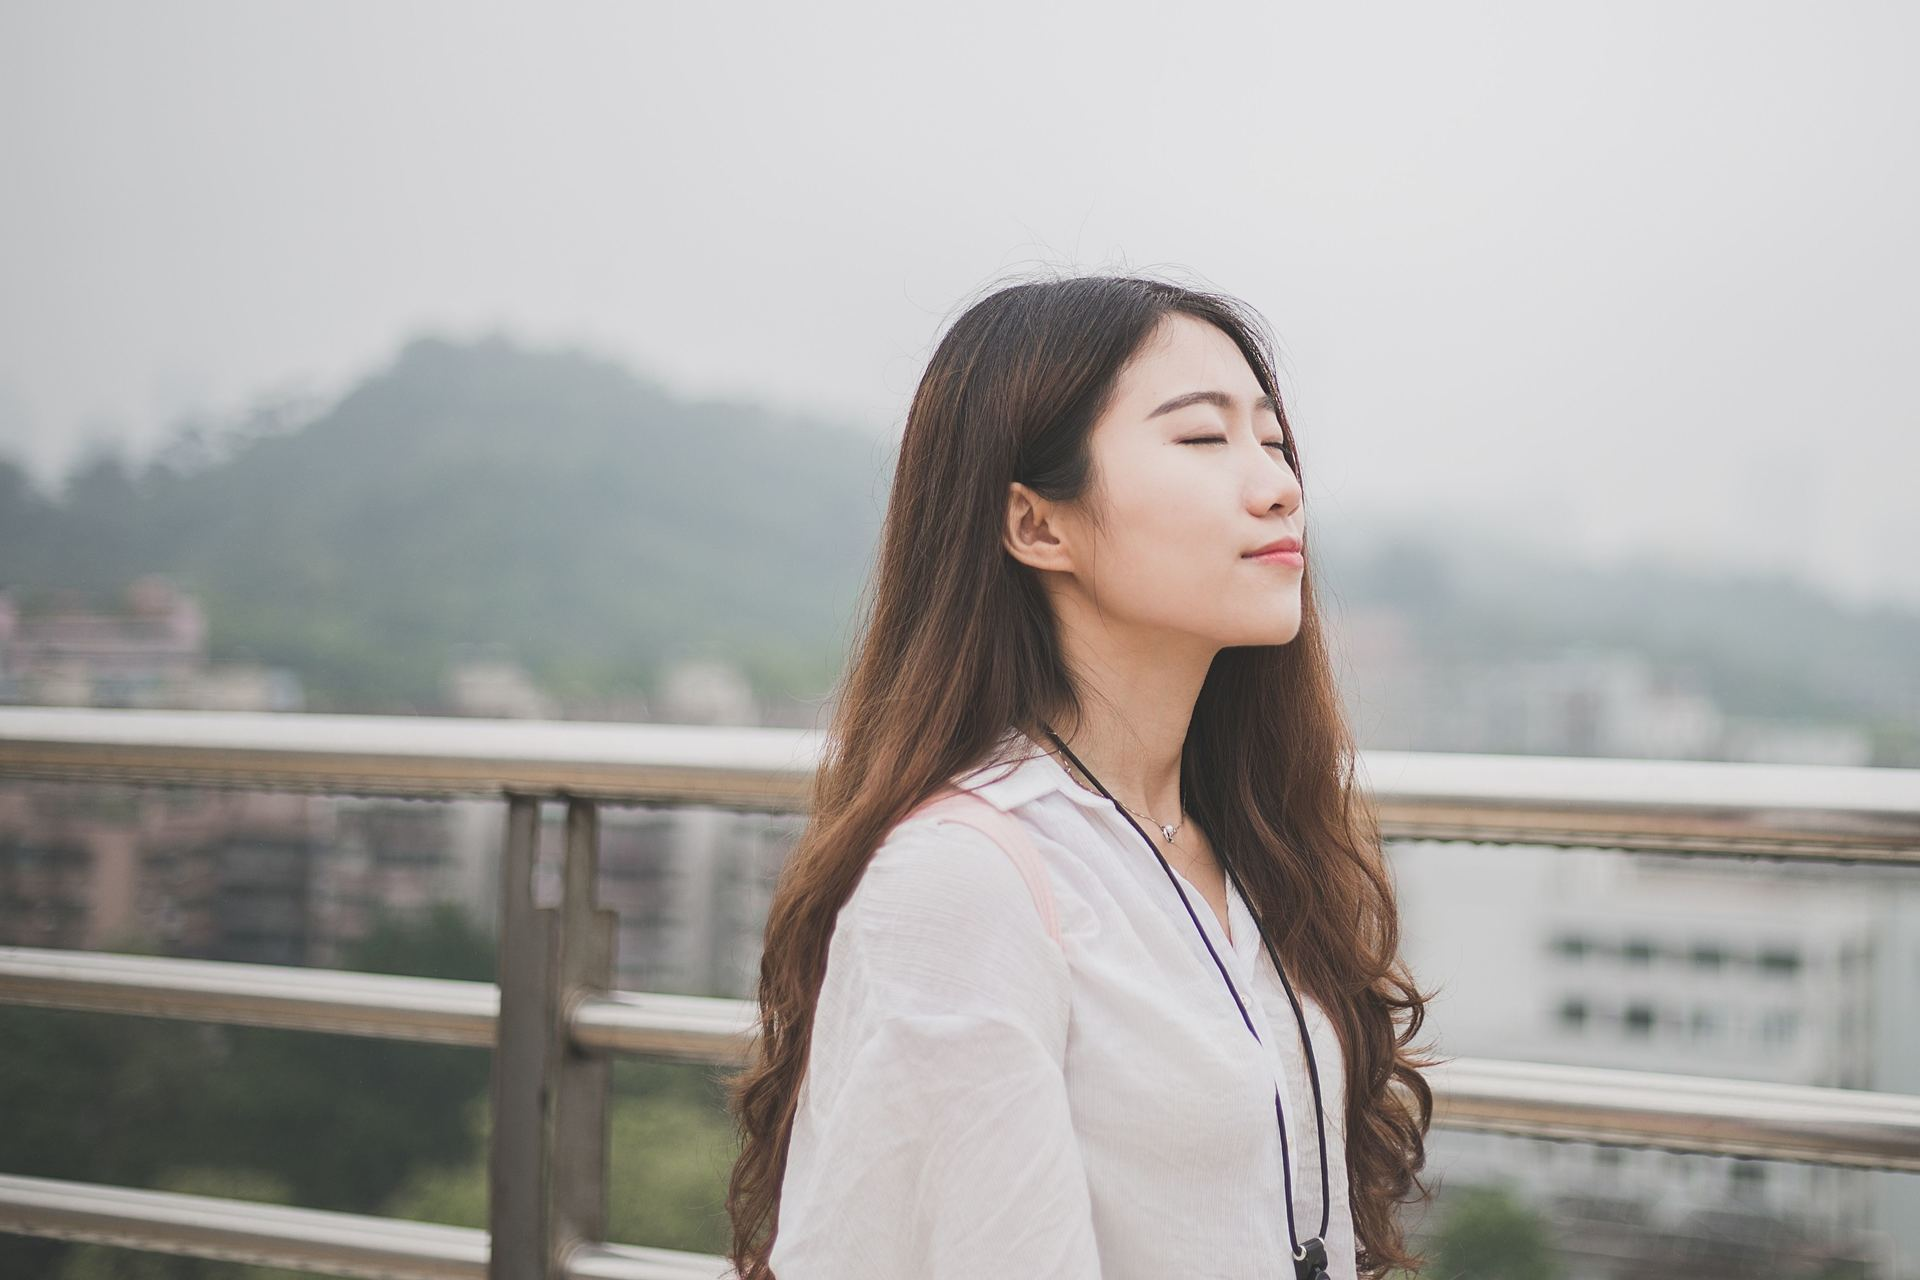
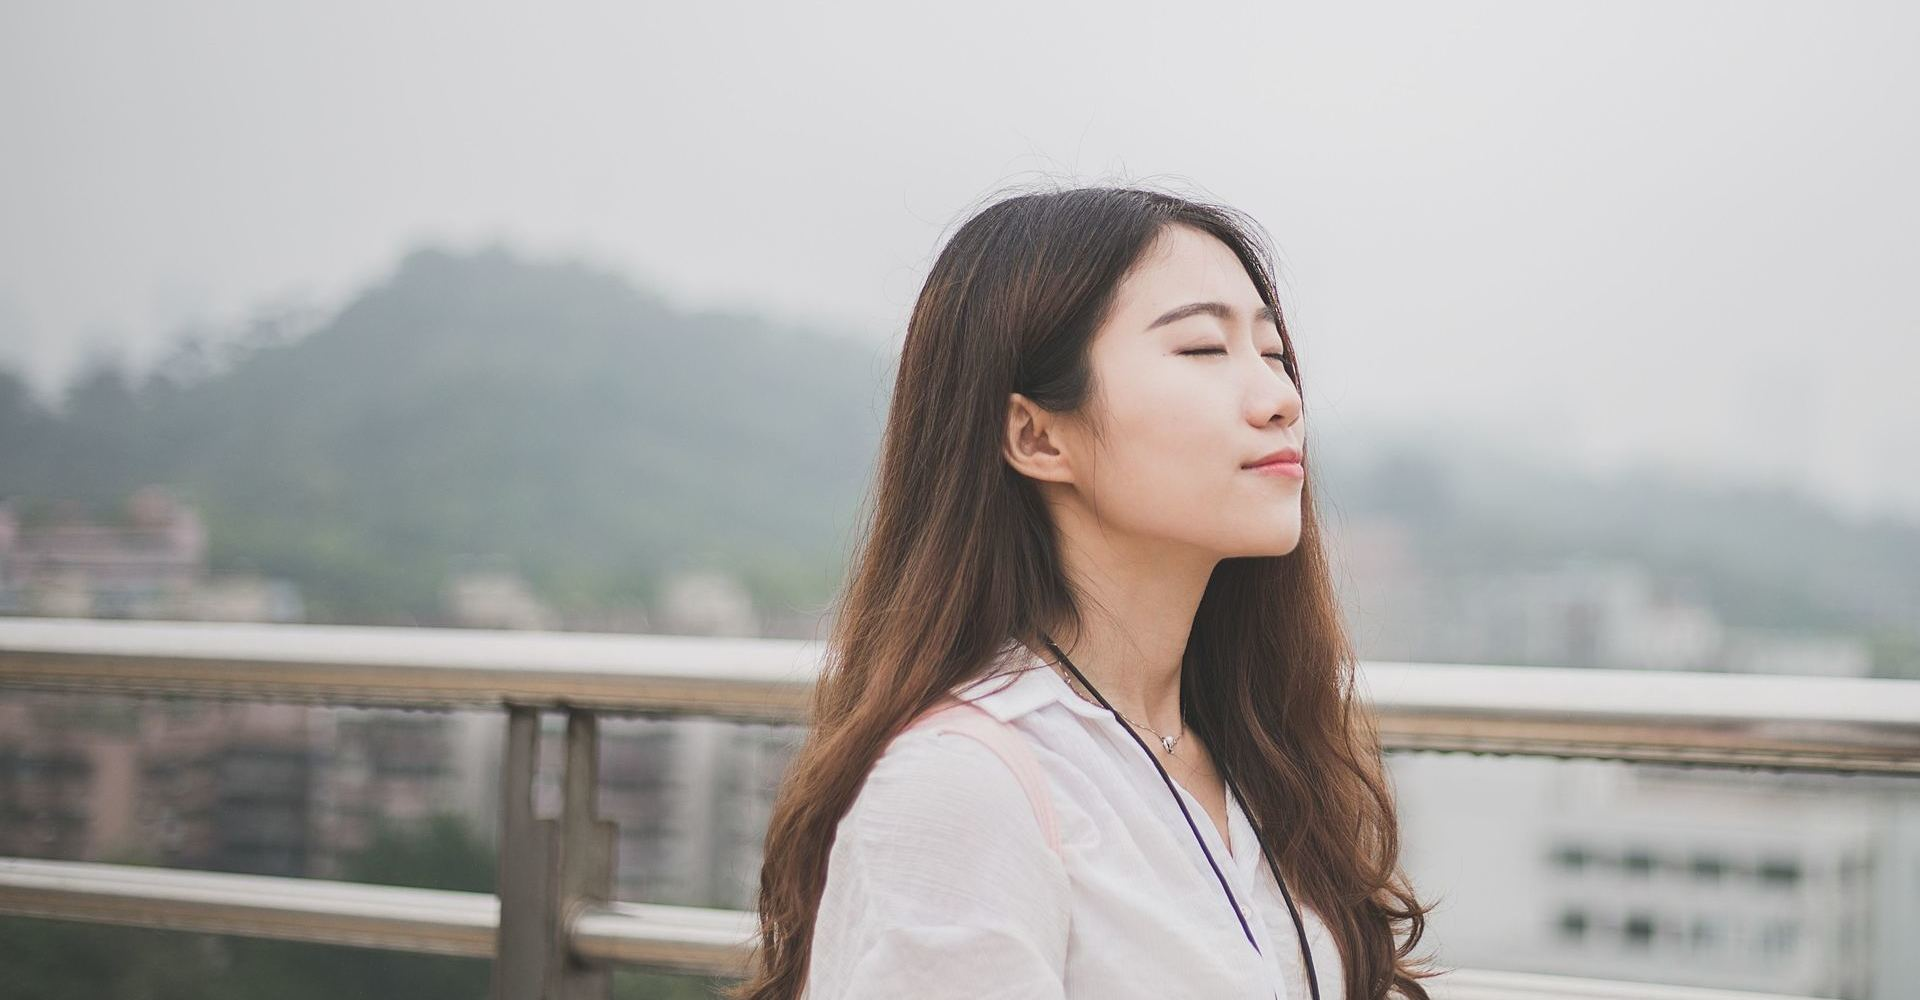
checkpoint

diff --git a/index.html b/index.html
@@ -16,8 +16,8 @@
 	<!-- UIkit CSS -->
 	<link rel="stylesheet" href="./node_modules/uikit/dist/css/uikit-core.min.css" />
 	<!-- UIkit JS -->
-	<script src="./node_modules/uikit/dist/js/uikit.min.js"></script>
-	<script src="./node_modules/uikit/dist/js/uikit-icons.min.js"></script>
+	<script defer src="./node_modules/uikit/dist/js/uikit.min.js"></script>
+	<script defer src="./node_modules/uikit/dist/js/uikit-icons.min.js"></script>
 	<!-- Fix Internet Explorer ______________________________________-->
 	<!--[if lt IE 9]>
 			<script src="http://html5shiv.googlecode.com/svn/trunk/html5.js"></script>
@@ -29,29 +29,31 @@
 <body>
 	<!-- slideshow -->
 	<div class="uk-inline uk-light">
-		<img src="./images/pic1.jpg" alt="">
+		<img src="./images/pic5-cropped.jpg" alt="">
 		<div class="uk-overlay-primary uk-position-cover"></div>
 		<div class="uk-visible@s uk-overlay uk-position-top uk-flex uk-flex-middle uk-flex-between">
 			<div>
 				<img src="./images/logo.png" width="200"> </div>
 			<div>
 				<p uk-margin>
-					<a class="uk-button" href="#">Contact</a>
-					<a class="uk-button uk-button-default" href="#">About</a>
+					<a class="uk-button" href="#contact">Contact</a>
+					<a class="uk-button uk-button-default" href="#about">About</a>
 				</p>
 			</div>
 		</div>
 		<div class="uk-overlay uk-position-center-left">
 			<div>
-				<h5>Simply Convenient</h5>
+				<h5 class="uk-margin-remove-adjacent uk-margin-small">Simple.</h5>
 				<h1>Making Privacy
 					<br> Understandable</h1>
 				<p>Highlighting the important bits of Privacy Policy &amp;
 					<br> User Agreements for the website you're browsing.</p>
 
 				<p uk-margin>
-					<a class="uk-button uk-button-default" href="#">Download FREE
-						<sup>BETA</sup>
+					<a class="uk-button uk-button-primary" href="#">
+						Download
+						<span class="uk-text-bold">FREE</span>
+						<sup class="uk-text-small">BETA</sup>
 					</a>
 				</p>
 			</div>
@@ -60,41 +62,66 @@
 
 	<div class="uk-section uk-section-default">
 		<div class="uk-container uk-text-center">
-			<h2 class="uk-text-capitalize">what we do</h2>
+			<h2 class="uk-text-uppercase uk-text-muted">what we do</h2>
 
 			<div class="uk-grid-match uk-child-width-1-3@m" uk-grid>
-				<div>
-					<img src="images/icon1.png" alt="">
-					<h3>Simplify</h3>
-					<p>We replace legal jargon
-						<br>with familiar words.</p>
-				</div>
 
 				<div>
-					<img src="images/icon2.png" alt="">
-					<h3>Shorten</h3>
-					<p>We summarize what's
-						<br>commonly important.</p>
+					<div class="uk-card">
+						<div class="uk-card-media-top">
+							<img src="images/icon1.png" class="uk-width-small" alt=" ">
+						</div>
+						<div class="uk-card-body ">
+							<h3 class="uk-card-title ">Simplify</h3>
+							<p>We replace legal jargon
+								<br> with familiar words.</p>
+						</div>
+					</div>
 				</div>
+
+
 				<div>
-					<img src="images/icon3.png" alt="">
-					<h3>Present</h3>
-					<p>We highlight conveniently
-						<br>and non-intrusively.</p>
+					<div class="uk-card ">
+						<div class="uk-card-media-top ">
+							<img src="images/icon2.png " class="uk-width-small" alt=" ">
+						</div>
+						<div class="uk-card-body ">
+							<h3 class="uk-card-title ">Shorten</h3>
+							<p>We summarize what's
+								<br>commonly important.</p>
+						</div>
+					</div>
 				</div>
+
+
+				<div>
+					<div class="uk-card ">
+						<div class="uk-card-media-top ">
+							<img src="images/icon3.png " class="uk-width-small" alt=" ">
+						</div>
+						<div class="uk-card-body ">
+							<h3 class="uk-card-title ">Present</h3>
+							<p>We highlight conveniently
+								<br>and non-intrusively.</p>
+						</div>
+					</div>
+				</div>
+
+
 			</div>
 		</div>
 	</div>
 
 
-	<div class="uk-section uk-section-default">
-		<div class="uk-container uk-text-center">
-			<h2 class="uk-text-capitalize">what you get</h2>
+	<div class="uk-section uk-section-default ">
+		<div class="uk-container uk-text-center ">
+			<h2 class="uk-text-uppercase uk-text-muted">what you get</h2>
 
-			<div class="uk-grid-match uk-child-width-1-3@m" uk-grid>
+			<div class="uk-grid-match uk-child-width-1-3@m " uk-grid>
 
 				<div>
-					<p>Available when needed
+					<p>
+						Available when needed
 					</p>
 				</div>
 				<div>
@@ -111,14 +138,14 @@
 
 
 
-	<div class="uk-section uk-section-default">
-		<div class="uk-container uk-text-center">
-			<div class="uk-child-width-1-3@m" uk-grid>
+	<div class="uk-section uk-section-default ">
+		<div class="uk-container">
+			<div class="uk-flex uk-flex-middle uk-flex-between">
 				<div>
-					<img src="images/icon4.png" alt="">
+					<img src="images/icon4.png" class="uk-width-medium" alt=" ">
 				</div>
-				<div>
-					<h2 class="uk-text-capitalize">Know what you've sign up for</h2>
+				<div class="uk-text-left">
+					<h2 class="uk-text-muted">Be aware of what you sign up for</h2>
 					<p>
 						Know their User Agreements. Easily.
 					</p>
